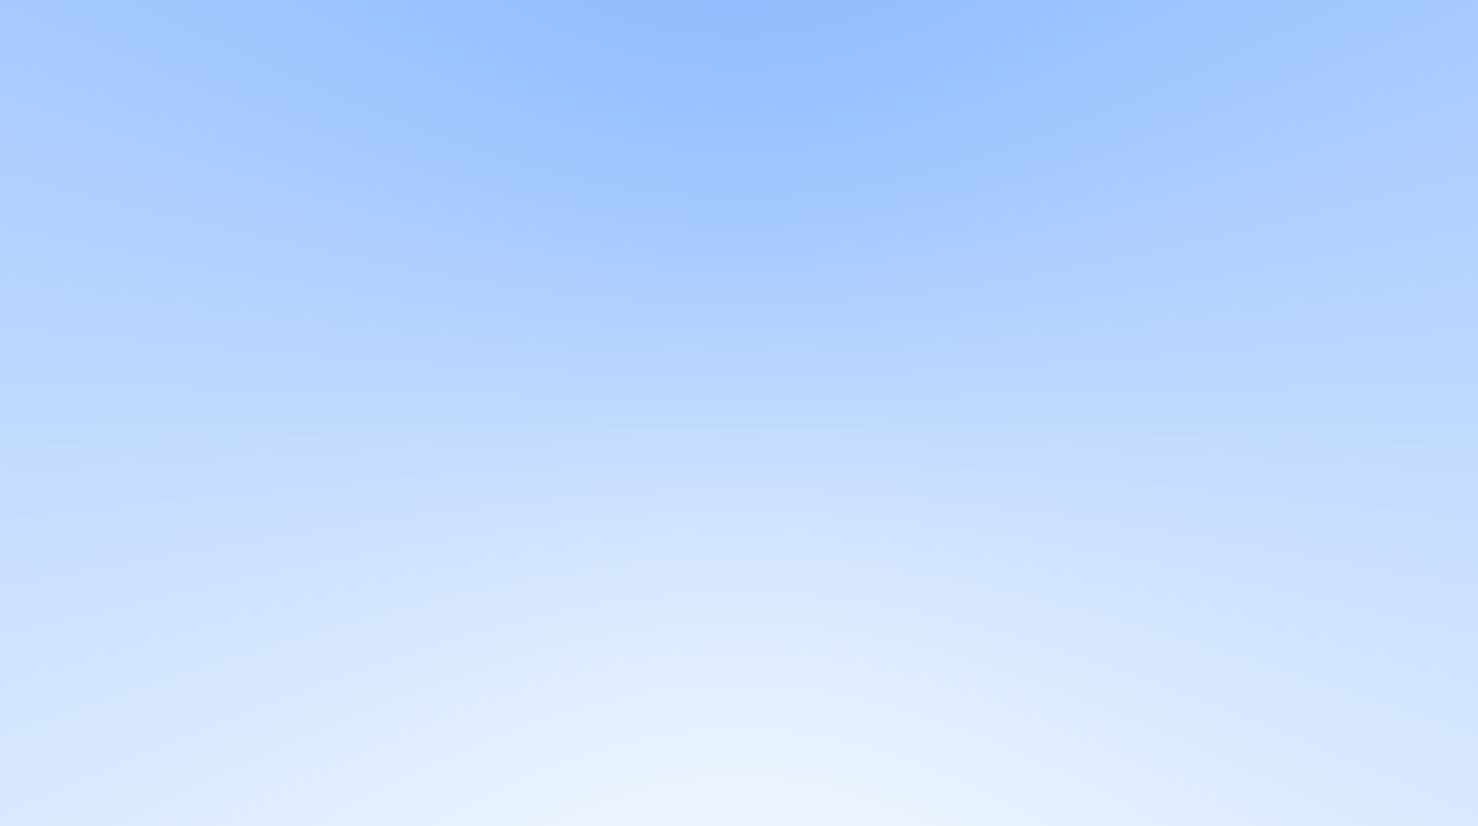
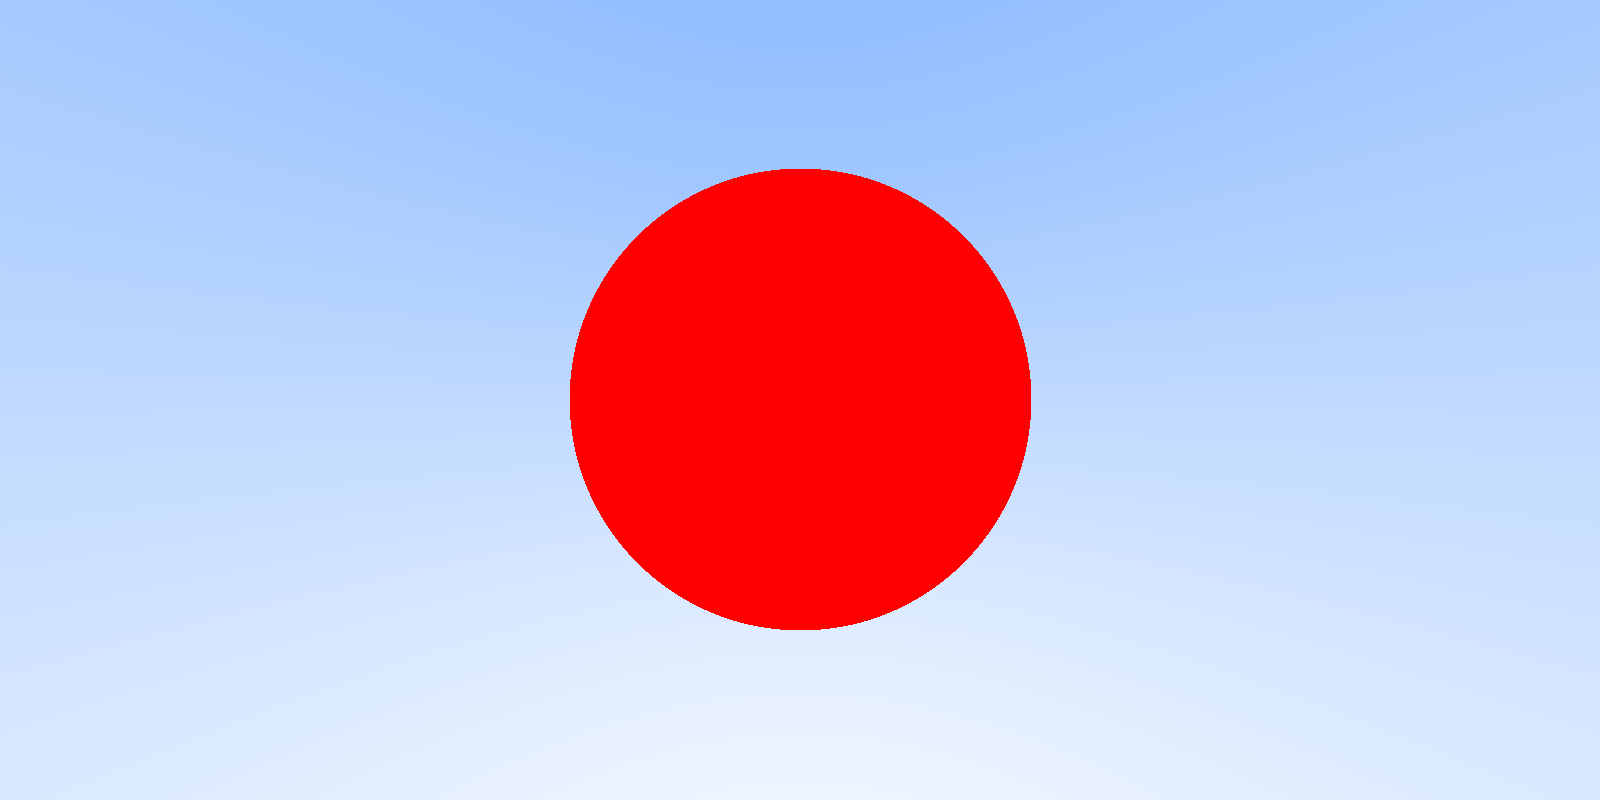
Red sphere + fixed size

Changed region(s): [[0.3424, 0.1875, 0.6536, 0.8125]]

diff --git a/Renderer/AAPLRenderer.mm b/Renderer/AAPLRenderer.mm
@@ -122,7 +122,18 @@ struct ray {
     vec3 a, b;
 };
 
+bool hit_sphere(const vec3& center, float radius, const ray& r) {
+    vec3 oc = r.origin() - center;
+    float a = dot(r.direction(), r.direction());
+    float b = 2.0 * dot(oc, r.direction());
+    float c = dot(oc, oc) - radius*radius;
+    float discriminant = b*b - 4*a*c;
+    return discriminant>0;
+}
+
 vec3 color(const ray& r) {
+    if(hit_sphere(vec3(0,0,-1), 0.5, r))
+        return vec3(1,0,0);
     vec3 unit_direction = normalize(r.direction());
     float t = 0.5 * (unit_direction.y + 1);
     return (1-t)*vec3(1) + t*vec3(0.5, 0.7, 1.0);
